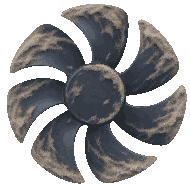
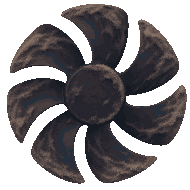
art(level): 흡기 팬 색감을 원경 팔레트에 맞춤
푸른 금속과 밝은 먼지가 원경에서 튀는 부분을 원경 12색으로 보정한다. 기존 회전자 알파와 배치는 그대로 사용한다.

실제 SDL 100프레임의 회전과 고정 원경을 확인했다. 번들 검증과 Tiled 재렌더 픽셀 대조를 통과했다. 전체 회귀와 사용자 직접 플레이는 수행하지 않았다.

diff --git a/docs/progress.md b/docs/progress.md
@@ -4,7 +4,7 @@
 
 ## 현재 단계
 
-- **파워서플라이 먼지·흡기 팬:** 2026-11-24 요청과 사용자 피드백으로 바닥·발판의 긴 줄기형 시안을 낮은 보풀과 먼지 띠로 교체했다. 원경 부품에 먼지층을 더했고, 팬 날개와 허브에 붙은 먼지가 회전자와 함께 돈다. [실제 게임의 팬](../art/levels/power-supply/dust-revision/rotor-dust/fan-in-game.gif) · [레벨 검증](../specs/021-power-supply-level/verification.md#먼지와-흡기-팬-후속-검증).
+- **파워서플라이 먼지·흡기 팬:** 2026-11-24 요청과 사용자 피드백으로 바닥·발판에 낮은 보풀과 먼지 띠를 배치했다. 원경 부품에도 먼지층을 더했다. 팬 날개와 허브에 붙은 먼지는 회전자와 함께 돌고, 팬 금속과 먼지는 원경 팔레트의 12색을 사용한다. [실제 게임의 팬](../art/levels/power-supply/dust-revision/rotor-grade/fan-in-game.gif) · [레벨 검증](../specs/021-power-supply-level/verification.md#먼지와-흡기-팬-후속-검증).
 
 - **첫 레벨 전원 구역:** 2026-11-24 사용자 요청으로 컴퓨터 파워서플라이 내부를 기본 실행에 연결하고 환경 원화에 hi-bit 가공을 적용했다. 흡기구, 방열판, 코일·콘덴서, 출력 단자를 배치했다. [명세](../specs/021-power-supply-level/spec.md) · [계획](../specs/021-power-supply-level/plan.md) · [검증](../specs/021-power-supply-level/verification.md).
 
